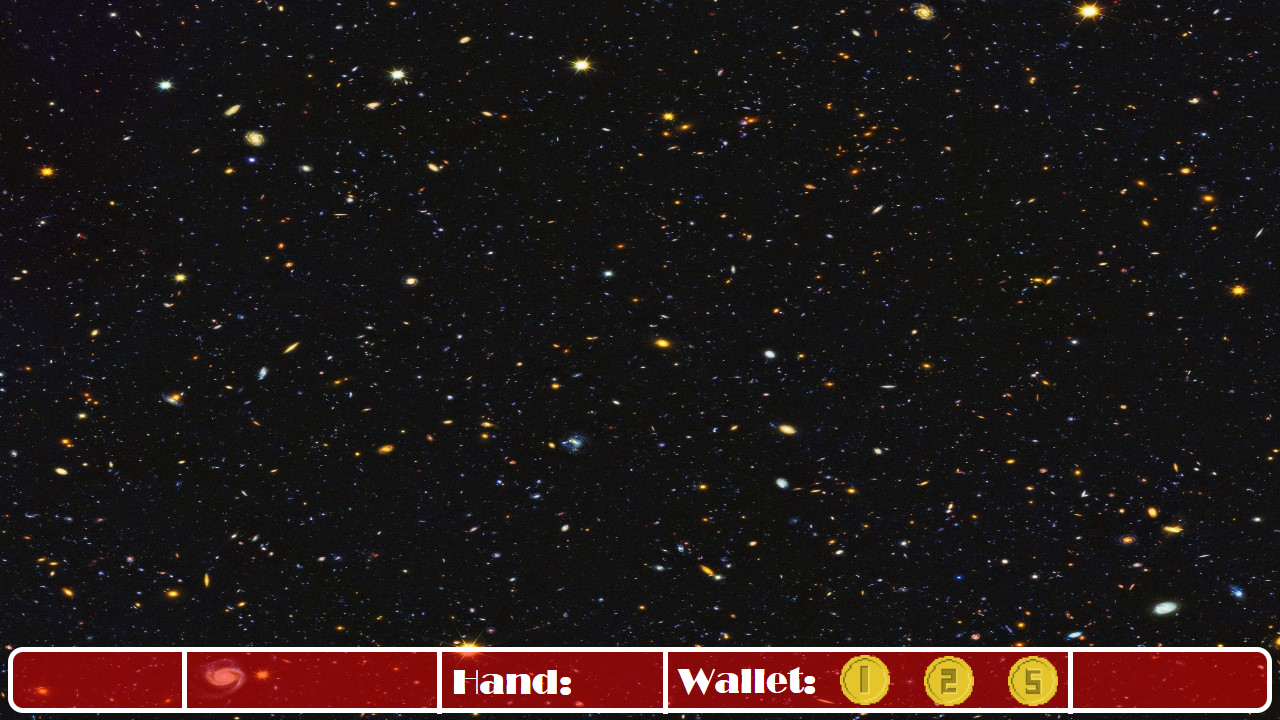
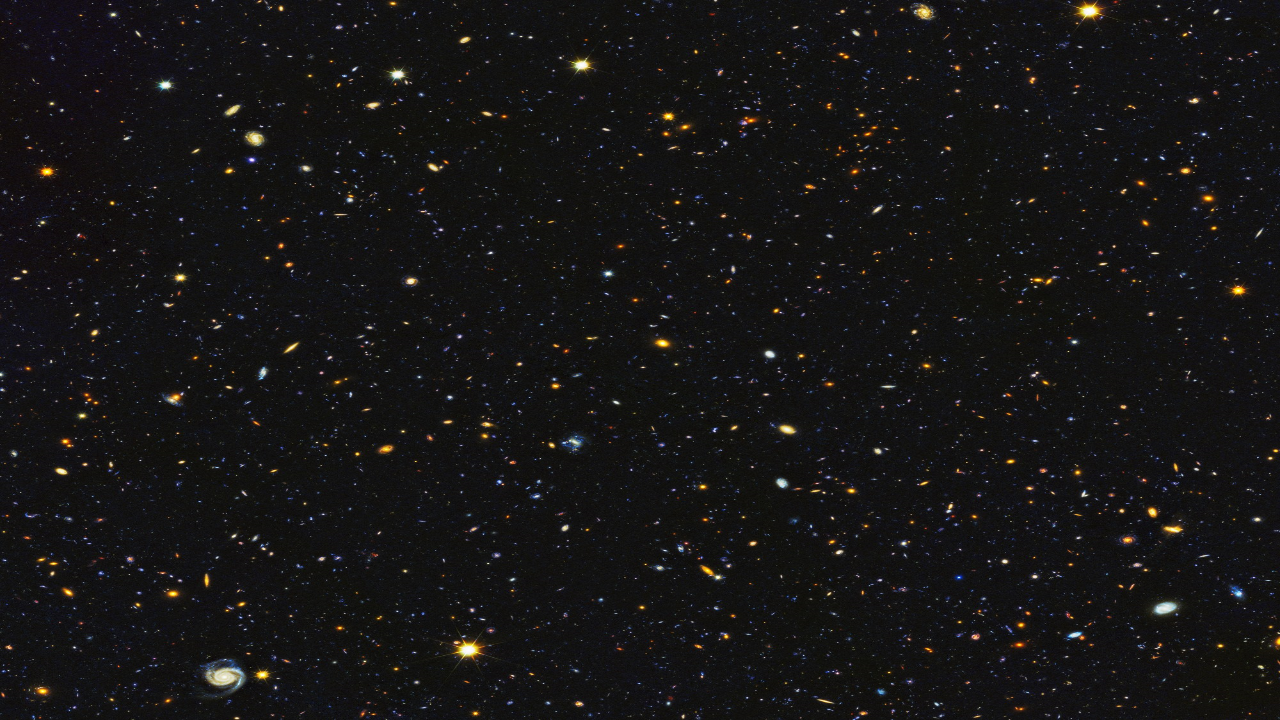
Corrected several bugs and affed some new features

Changed region(s): [[0.0, 0.8861, 1.0, 1.0]]

diff --git a/core/src/jakoop/com/GameScreen.java b/core/src/jakoop/com/GameScreen.java
@@ -7,6 +7,7 @@ import java.util.List;
 import java.util.Map;
 import java.util.Random;
 
+import javax.print.DocFlavor.READER;
 import javax.swing.SingleSelectionModel;
 
 import com.badlogic.gdx.Gdx;
@@ -29,21 +30,26 @@ public class GameScreen implements Screen {
 	int[] enemiesDimension;
     OrthographicCamera camera;
     Viewport viewport;
+    Texture stageBackground;
     Texture background;
     Player player;
     Music stage1;
     Sound youLose;
+    Sound victory;
     Sound loseLife;
     Sound drinkHit;
     Sound stageComplete;
     EnemyWave enemies;
     boolean isGameOver;
     boolean hasWon;
+	boolean stageFinished;
     Texture gameOver;
     Texture youWin;
+    Texture pressKey;
 	
 	public GameScreen(final InvadersGame game) {
 		this.isGameOver = false;
+		this.stageFinished = false;
 		this.game=game;
 		this.spriteBatch = game.spriteBatch;
 		this.difficulty = 1;
@@ -52,12 +58,15 @@ public class GameScreen implements Screen {
 		camera = new OrthographicCamera();
         camera.setToOrtho(false, 1280, 720);
         //viewport = new StretchViewport(1280, 720, camera)
-        background = new Texture(Gdx.files.internal(Resources.IMAGE_BACKGROUND)); 
+        stageBackground = new Texture(Gdx.files.internal(Resources.IMAGE_STAGE_BACKGROUND));
+        background = new Texture(Gdx.files.internal(Resources.IMAGE_BACKGROUND));
         player = new Player(); 
         stage1 = Gdx.audio.newMusic(Gdx.files.internal(Resources.MUSIC_STAGE3));
         stage1.play();
-        gameOver = new Texture(Gdx.files.internal("image\\gameover.png"));
-        youWin = new Texture(Gdx.files.internal("image\\youWin.png"));
+        stage1.setVolume(0.1f);
+        gameOver = new Texture(Gdx.files.internal(Resources.IMAGE_GAME_OVER));
+        youWin = new Texture(Gdx.files.internal(Resources.IMAGE_YOU_WIN));
+        pressKey = new Texture(Gdx.files.internal(Resources.IMAGE_PRESS_KEY));
 	}
 
 	private void chooseSettings() {
@@ -88,25 +97,34 @@ public class GameScreen implements Screen {
         camera.update();
         spriteBatch.setProjectionMatrix(camera.combined);
         spriteBatch.begin();
-        spriteBatch.draw(background,0,0);
-        if(isGameOver) {
+        
+        if(isGameOver && !stageFinished) {
         	stage1.stop();
             youLose = Gdx.audio.newSound(Gdx.files.internal(Resources.SOUND_GAME_OVER));
-        	youLose.play();
-        	spriteBatch.draw(gameOver, 340, 300, 600, 300);
-        	
-        	if(Gdx.input.isKeyPressed(Keys.ANY_KEY)) {
-        	this.dispose();
-        	game.setScreen(new Menu(game));}
+            youLose.play();
+            stageFinished = true;
         }
-        else if(hasWon) {
-			stage1.stop();        	
-        	spriteBatch.draw(youWin, 340, 300, 600, 300);
+        else if(hasWon && !stageFinished) {
+			stage1.stop();   
+			victory = Gdx.audio.newSound(Gdx.files.internal(Resources.SOUND_VICTORY));
+			victory.play();
+			stageFinished = true;
+        }
+        else if(stageFinished) {
+        	spriteBatch.draw(background,0,0);
+        	spriteBatch.draw(pressKey, 350, 70, 600, 100);
+        	if(isGameOver) {
+        		spriteBatch.draw(gameOver, 340, 220, 600, 300);
+        	} else if (hasWon) {
+        		spriteBatch.draw(youWin, 340, 220, 600, 300);           	
+        	}
         	if(Gdx.input.isKeyPressed(Keys.ANY_KEY)) {
-        	this.dispose();
-        	game.setScreen(new Menu(game));}
+        		this.dispose();
+            	game.setScreen(new Menu(game));
+            }
         }
         else {
+        spriteBatch.draw(stageBackground,0,0);	
         player.draw(spriteBatch);
         enemies.drawEnemies(spriteBatch);
         checkConflicts();
@@ -167,10 +185,7 @@ public class GameScreen implements Screen {
 				player.posY+player.height>enemy.posY&&
 				player.posY<enemy.posY+enemy.height) return true;
 		if(enemy.posY<70) return true;
-		return false;
-		
-		
-		
+		return false;	
 	}
 
 	private int checkPos(Coin c, Enemy enemy) {

diff --git a/core/src/jakoop/com/Menu.java b/core/src/jakoop/com/Menu.java
@@ -8,6 +8,7 @@ import javax.swing.JButton;
 import com.badlogic.gdx.Gdx;
 import com.badlogic.gdx.InputMultiplexer;
 import com.badlogic.gdx.Screen;
+import com.badlogic.gdx.audio.Music;
 import com.badlogic.gdx.audio.Sound;
 import com.badlogic.gdx.graphics.Color;
 import com.badlogic.gdx.graphics.GL20;
@@ -29,7 +30,7 @@ import com.badlogic.gdx.scenes.scene2d.utils.ClickListener;
 import com.badlogic.gdx.utils.viewport.ScreenViewport;
 import com.badlogic.gdx.utils.viewport.Viewport;
 
-public class Menu implements Screen{
+public class Menu implements Screen {
 
 	final InvadersGame game;
 	final SpriteBatch spriteBatch;
@@ -40,6 +41,7 @@ public class Menu implements Screen{
     TextButton startB, exitB;
     Skin skin;
     Sound button;
+    Music main;
     public GameScreen mainGameScreen;
 
     
@@ -49,7 +51,10 @@ public class Menu implements Screen{
 		camera = new OrthographicCamera();
         camera.setToOrtho(false, 1280, 720);
         //viewport = new StretchViewport(1280, 720, camera)
-        background = new Texture(Gdx.files.internal("main.png")); 
+        background = new Texture(Gdx.files.internal(Resources.IMAGE_MAIN));
+        main = Gdx.audio.newMusic(Gdx.files.internal(Resources.MUSIC_MAIN));
+        main.play();
+        main.setVolume(0.6f);
 	}
 
 	@Override
@@ -77,9 +82,7 @@ public class Menu implements Screen{
         spriteBatch.begin();
         spriteBatch.draw(background,0,0);
         spriteBatch.end();
-        stage.draw();
-
-		
+        stage.draw();	
 	}
 
 	@Override
@@ -138,9 +141,9 @@ public class Menu implements Screen{
 	       
 			@Override
 			public void changed(ChangeEvent arg0, Actor arg1) {
-				System.out.println("entra");
 				button = Gdx.audio.newSound(Gdx.files.internal(Resources.SOUND_BUTTON));
 	        	button.play();
+	        	main.stop();
 				GameScreen gameScreen = new GameScreen(game);
 				game.setScreen(gameScreen);
 				startB.setDisabled(true);
@@ -162,6 +165,7 @@ public class Menu implements Screen{
 			public void changed(ChangeEvent arg0, Actor arg1) {
 				button = Gdx.audio.newSound(Gdx.files.internal(Resources.SOUND_BUTTON));
 	        	button.play();
+	        	main.stop();
 				stage.dispose();
 				game.dispose();
 			}

diff --git a/core/src/jakoop/com/Resources.java b/core/src/jakoop/com/Resources.java
@@ -1,10 +1,9 @@
 package jakoop.com;
 
 public final class Resources {
-	/** COINS */
+	/** GENERAL VALUE */
     public static final int ONE_EURO = 1; 
     public static final int TWO_EURO = 2;
-
     public static final int FIVE_EURO = 3; 
     public static final int COLUMNS = 5;
     public static final float SPEED_LVL1 = 20.0f; 
@@ -33,12 +32,17 @@ public final class Resources {
     public static final String ENEMY_SHOT = "image\\shot.png";
     
     /** COIN ICONS */
-    public static final String ENEMY_ONE = "image\\one.png";
-    public static final String ENEMY_TWO = "image\\two.png";
-    public static final String ENEMY_FIVE = "image\\five.png";
+    public static final String COIN_ONE = "image\\one.png";
+    public static final String COIN_TWO = "image\\two.png";
+    public static final String COIN_FIVE = "image\\five.png";
     
     /** GENERAL IMAGES */
+    public static final String IMAGE_MAIN = "image\\main.png";
+	public static final String IMAGE_STAGE_BACKGROUND = "image\\stageBackground.png";
 	public static final String IMAGE_BACKGROUND = "image\\background.png";
+	public static final String IMAGE_PRESS_KEY = "image\\pressAnyKey.png";
+	public static final String IMAGE_YOU_WIN= "image\\youWin.png";
+	public static final String IMAGE_GAME_OVER = "image\\gameOver.png";
 	public static final String IMAGE_TXAPELA = "image\\txapela.png";
 	public static final String IMAGE_HEART = "image\\heart.png";
 	

diff --git a/core/src/jakoop/com/Coin.java b/core/src/jakoop/com/Coin.java
@@ -22,13 +22,13 @@ public class Coin {
 		this.posY = posY;
 		this.value = value;
 		if(value == Resources.ONE_EURO) {
-			texture = new Texture(Gdx.files.internal("one.png"));
+			texture = new Texture(Gdx.files.internal(Resources.COIN_ONE));
 		}
 		else if(value == Resources.TWO_EURO) {
-				texture = new Texture(Gdx.files.internal("two.png"));
+				texture = new Texture(Gdx.files.internal(Resources.COIN_TWO));
 			} 
 		else if(value == Resources.FIVE_EURO) {
-			texture = new Texture(Gdx.files.internal("five.png"));
+			texture = new Texture(Gdx.files.internal(Resources.COIN_FIVE));
 		}
 	}
 	
